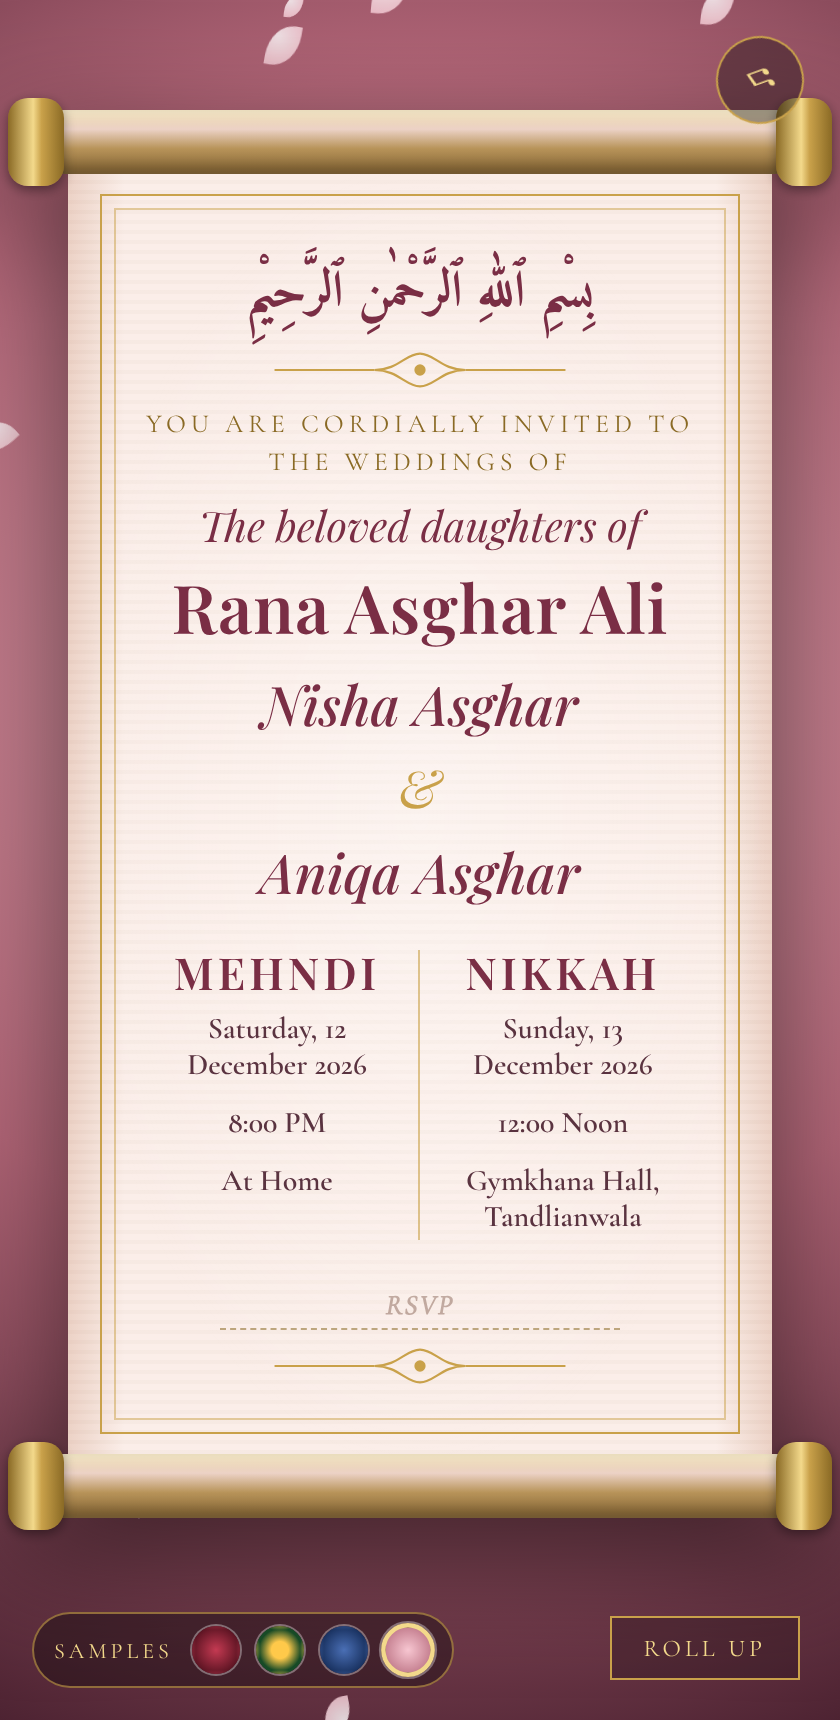
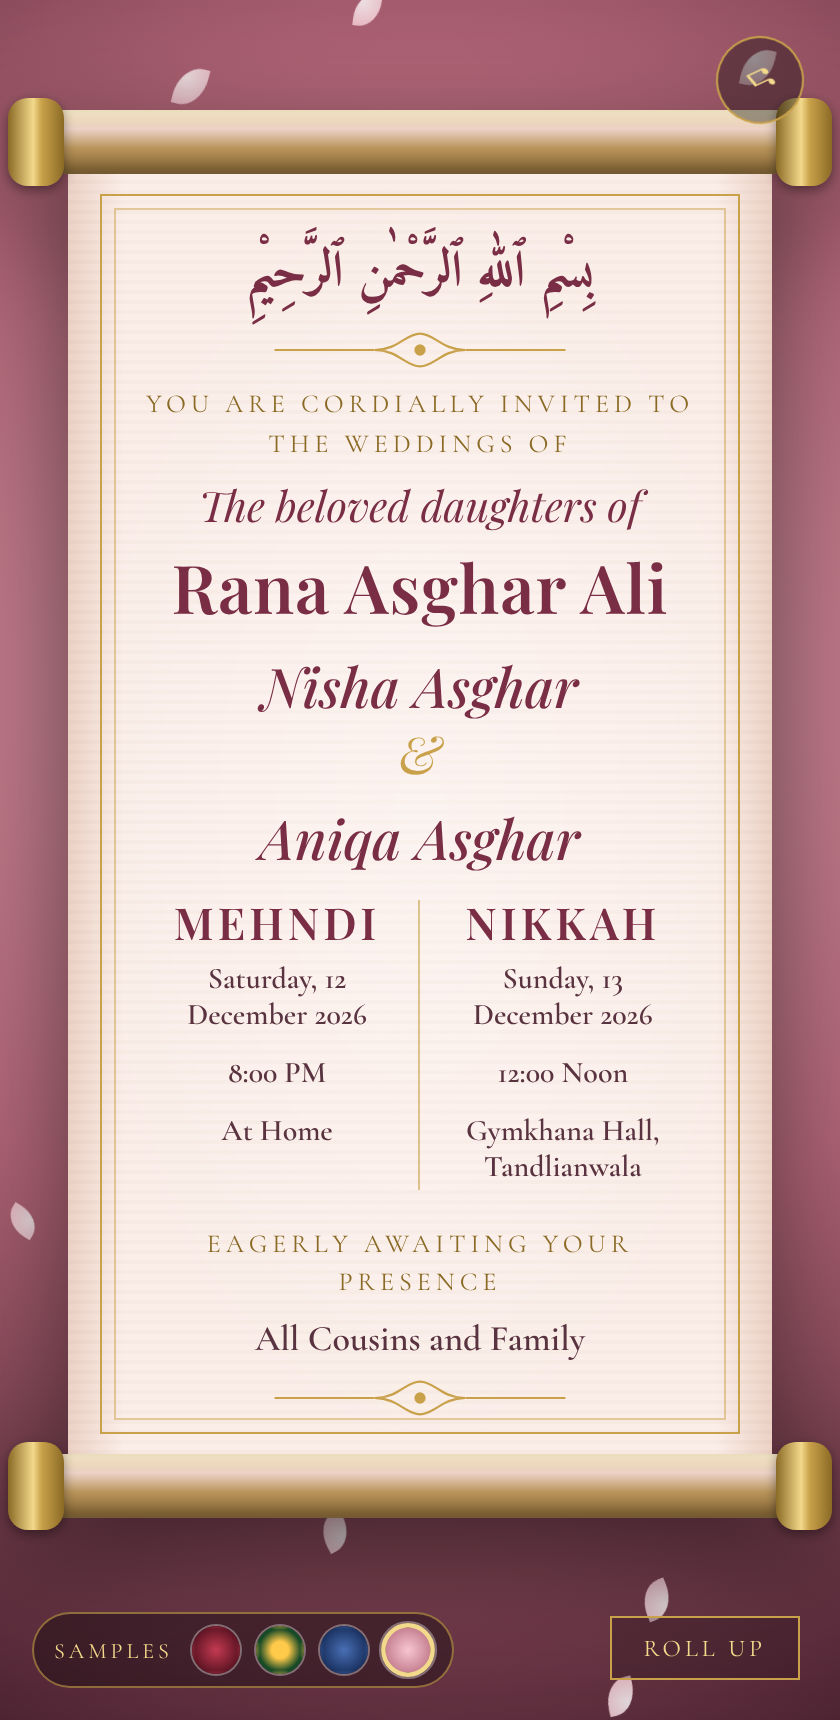
Add closing line from all cousins and family
Claude-Session: https://claude.ai/code/session_018LanUARvSCfKdbJiRGGymV

diff --git a/wedding-scroll/index.html b/wedding-scroll/index.html
@@ -258,7 +258,8 @@
           </div>
         </div>
 
-        <div class="field rsvp" contenteditable="true" data-label="RSVP"></div>
+        <div class="small rsvp">Eagerly awaiting your presence</div>
+        <div class="field" contenteditable="true" data-label="RSVP" style="margin-top:-4px">All Cousins and Family</div>
 
         <svg class="ornament" viewBox="0 0 160 22" fill="none" stroke="currentColor" stroke-width="1.2" style="transform:rotate(180deg)">
           <path d="M0 11h55M105 11h55"/><path d="M80 2c-8 0-12 9-25 9 13 0 17 9 25 9 8 0 12-9 25-9-13 0-17-9-25-9z"/><circle cx="80" cy="11" r="2.5" fill="currentColor"/>
